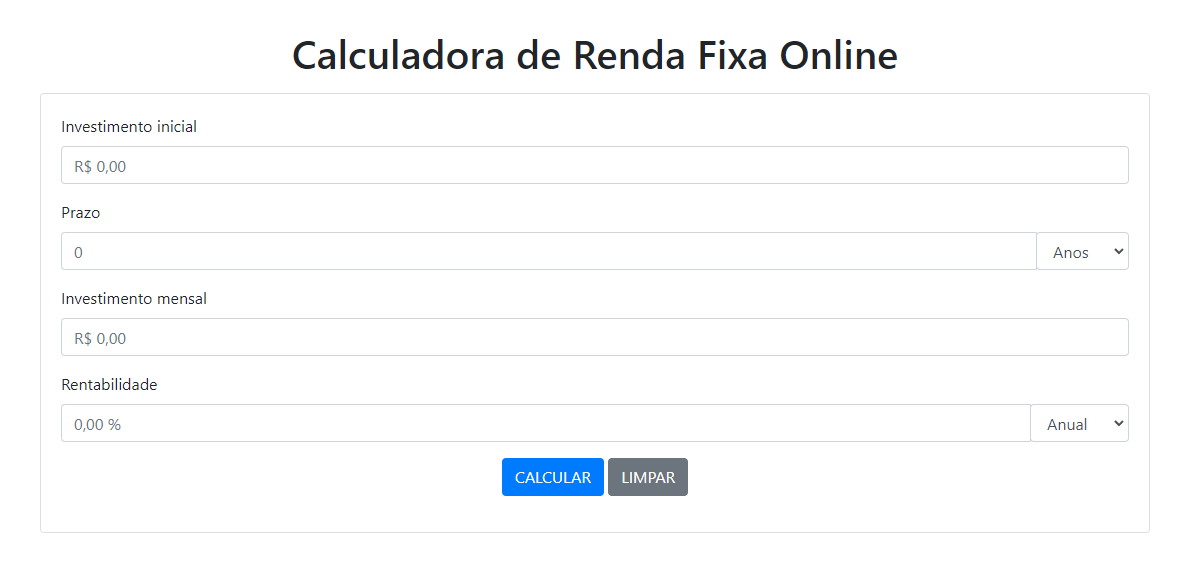
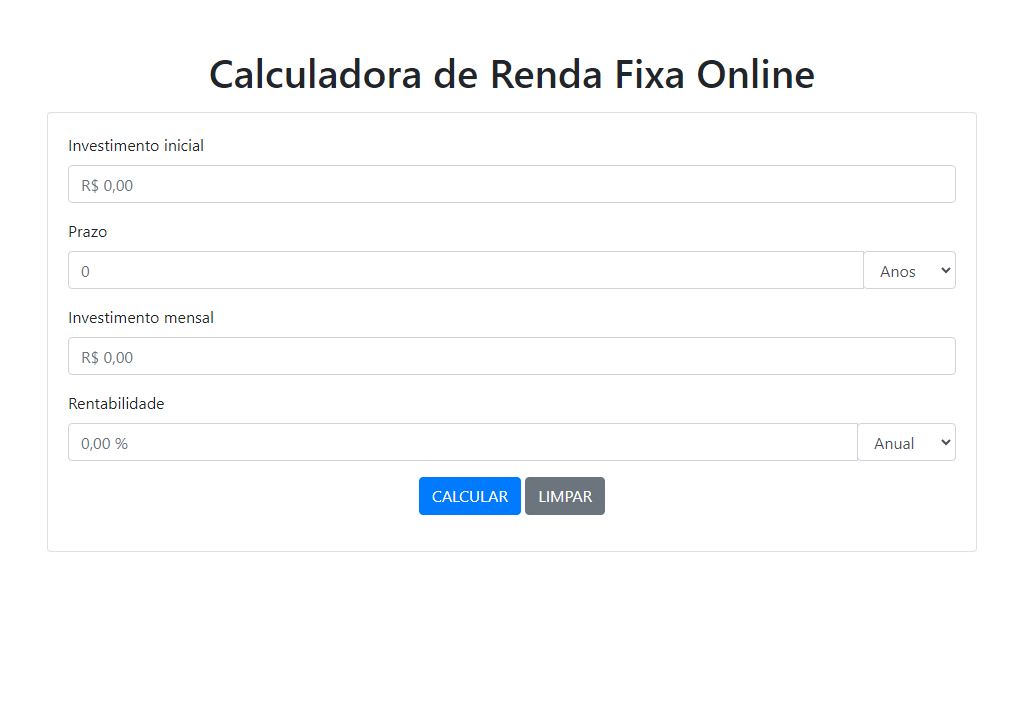
renda | 1 teste funcional

diff --git a/test/FuncionalRenda.js b/test/FuncionalRenda.js
@@ -1,0 +1,76 @@
+const { Builder, By, Key, until } = require('selenium-webdriver');
+const chrome = require('selenium-webdriver/chrome');
+const { Options } = require('selenium-webdriver/chrome');
+const path = require('path');
+const fs = require('fs');
+
+(async () => {
+  const screen = { width: 1024, height: 720 };
+  const chromeOptions = new Options();
+  chromeOptions.addArguments('--headless');
+  chromeOptions.addArguments('--no-sandbox');
+  chromeOptions.addArguments('--disable-gpu');
+  chromeOptions.addArguments('--ignore-certificate-errors');
+  chromeOptions.addArguments('--disable-dev-shm-usage');
+  chromeOptions.windowSize(screen);
+
+  const builder = new Builder()
+    .forBrowser('chrome')
+    .setChromeOptions(chromeOptions);
+
+  let driver = await builder.build();
+
+  try {
+    await driver.get('https://stealth-faithful-geese.glitch.me/renda');
+    // await driver.get('http://localhost:3000/renda');
+    
+    await driver.wait(until.elementLocated(By.id('initial-investment')), 10000);
+
+    const screenshotDir = path.join(__dirname, '../fotos/renda');
+    if (!fs.existsSync(screenshotDir)) {
+      fs.mkdirSync(screenshotDir, { recursive: true });
+    }
+
+    await driver.takeScreenshot().then((image, err) => {
+      fs.writeFileSync(path.join(screenshotDir, 'inicio-renda.png'), image, 'base64');
+    });
+
+    await driver.findElement(By.id('initial-investment')).sendKeys('R$ 1000,00');
+    await driver.findElement(By.id('duration')).sendKeys(12);
+    await driver.findElement(By.id('monthly-investment')).sendKeys('R$ 100,00');
+    await driver.findElement(By.id('profitability')).sendKeys('5,00');
+    await driver.findElement(By.id('duration-unit')).sendKeys('Anos');
+    await driver.findElement(By.id('profitability-period')).sendKeys('Anual');
+
+    await driver.takeScreenshot().then((image, err) => {
+      fs.writeFileSync(path.join(screenshotDir, 'valorDigitado-renda.png'), image, 'base64');
+    });
+
+    const calculateButton = await driver.findElement(By.css('.calculate'));
+    await calculateButton.click();
+
+    await driver.wait(until.elementIsVisible(driver.findElement(By.id('modal'))), 20000);
+
+    await driver.takeScreenshot().then((image, err) => {
+      fs.writeFileSync(path.join(screenshotDir, 'fim-renda.png'), image, 'base64');
+    });
+
+    const valorBruto = await driver.findElement(By.id('valorBruto')).getText();
+    const impostos = await driver.findElement(By.id('impostos')).getText();
+    const valorLiquido = await driver.findElement(By.id('valorLiquido')).getText();
+
+    console.log('Valor Bruto:', valorBruto);
+    console.log('Impostos:', impostos);
+    console.log('Valor Líquido:', valorLiquido);
+
+    if (valorBruto.includes('R$') && impostos.includes('R$') && valorLiquido.includes('R$')) {
+      console.log('Passou: Valores calculados são visíveis e formatados corretamente');
+    } else {
+      console.log('Falhou: Valores calculados não são visíveis ou não estão formatados corretamente');
+    }
+  } catch (error) {
+    console.error('Teste funcional falhou:', error);
+  } finally {
+    await driver.quit();
+  }
+})();
